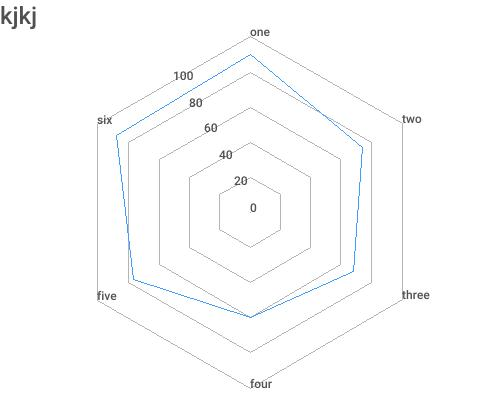
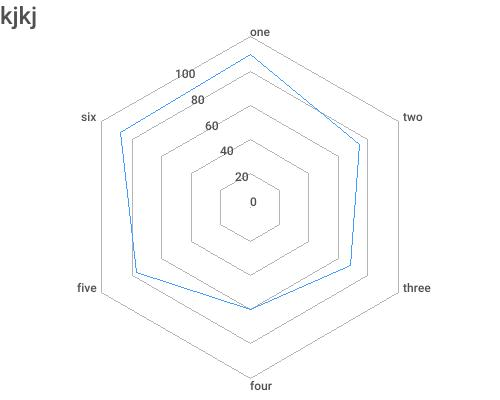
修复文字位置问题

diff --git a/chart.go b/chart.go
@@ -131,7 +131,7 @@ func DrawRadar(op Options) *image.RGBA {
 	drawtext(rgba, op.FontColor, op.TitleFontSize, f, titlepoint.X, titlepoint.Y, op.Title)
 
 	// 绘制六边形的地方
-	edge := op.Height - titlepoint.Y - 2*op.FontSize
+	edge := op.Height - titlepoint.Y - 2*op.FontSize - 10
 	yoffset := titlepoint.Y + op.FontSize
 	xoffset := op.Width/2 - edge/2
 
@@ -141,6 +141,7 @@ func DrawRadar(op Options) *image.RGBA {
 	}
 
 	fmt.Println("画边线")
+	dingdianpts := make([]image.Point, 0)
 	for j := 0; j < len(op.DataValues); j++ {
 		//找到6个顶点位置 在直径为width的圆上
 		width := edge * op.DataValues[j] / op.DataValues[0]
@@ -156,7 +157,9 @@ func DrawRadar(op Options) *image.RGBA {
 			newx += float64(edge/2 + xoffset)
 			pts = append(pts, image.Point{int(newx), int(newy)})
 		}
-
+		if j == 0 {
+			dingdianpts = pts
+		}
 		for i := 0; i < len(pts); i++ {
 			if i == len(pts)-1 {
 				drawline(rgba, op.BacklineColor, pts[0].X, pts[0].Y, pts[len(pts)-1].X, pts[len(pts)-1].Y, 1)
@@ -164,15 +167,34 @@ func DrawRadar(op Options) *image.RGBA {
 				drawline(rgba, op.BacklineColor, pts[i].X, pts[i].Y, pts[i+1].X, pts[i+1].Y, 1)
 			}
 
-			if j == 0 {
-				drawtext(rgba, op.FontColor, op.FontSize, f, pts[i].X, pts[i].Y, op.DrawDatas[i].Name)
-			}
-
 		}
 		//标尺文字
 		tmpx := pts[len(pts)-1].X/2 + pts[0].X/2
 		tmpy := pts[len(pts)-1].Y/2 + pts[0].Y/2
 		drawtext(rgba, op.FontColor, op.FontSize, f, tmpx, tmpy, fmt.Sprintf("%d", op.DataValues[j]))
+	}
+
+	// 绘制顶点的文字
+	centerx := edge/2 + xoffset
+	centery := edge/2 + yoffset
+	for i, pt := range dingdianpts {
+		tmpy := pt.Y
+		tmpx := pt.X
+		if centerx == tmpx && tmpy > centery {
+			//往下写
+			tmpy += op.FontSize
+		} else if tmpx > centerx {
+			//右侧
+			tmpx += 5
+		} else if tmpx < centerx {
+			//左侧
+			wid := getwidth(op.FontSize, f, op.DrawDatas[i].Name)
+
+			tmpx -= wid + 5
+
+		}
+
+		drawtext(rgba, op.FontColor, op.FontSize, f, tmpx, tmpy, op.DrawDatas[i].Name)
 	}
 
 	// 绘制属性得分线
@@ -256,4 +278,27 @@ func drawtext(rgba *image.RGBA,
 		log.Println(err)
 		return
 	}
+}
+
+func getwidth(fontsize int, f *truetype.Font, text string) int {
+	rgba := image.NewRGBA(image.Rect(0, 0, 1000, 200))
+	c := freetype.NewContext()
+	c.SetDPI(72)
+	c.SetFont(f)
+	c.SetFontSize(float64(fontsize))
+	c.SetClip(rgba.Bounds())
+	c.SetDst(rgba)
+	c.SetSrc(&image.Uniform{color.RGBA{0, 0, 0, 255}})
+
+	c.SetHinting(font.HintingNone)
+
+	pt := freetype.Pt(0, 0)
+	xx, err := c.DrawString(text, pt)
+	if err != nil {
+		log.Println(err)
+		return 0
+	}
+
+	var bb = xx.X >> 6
+	return int(bb)
 }
